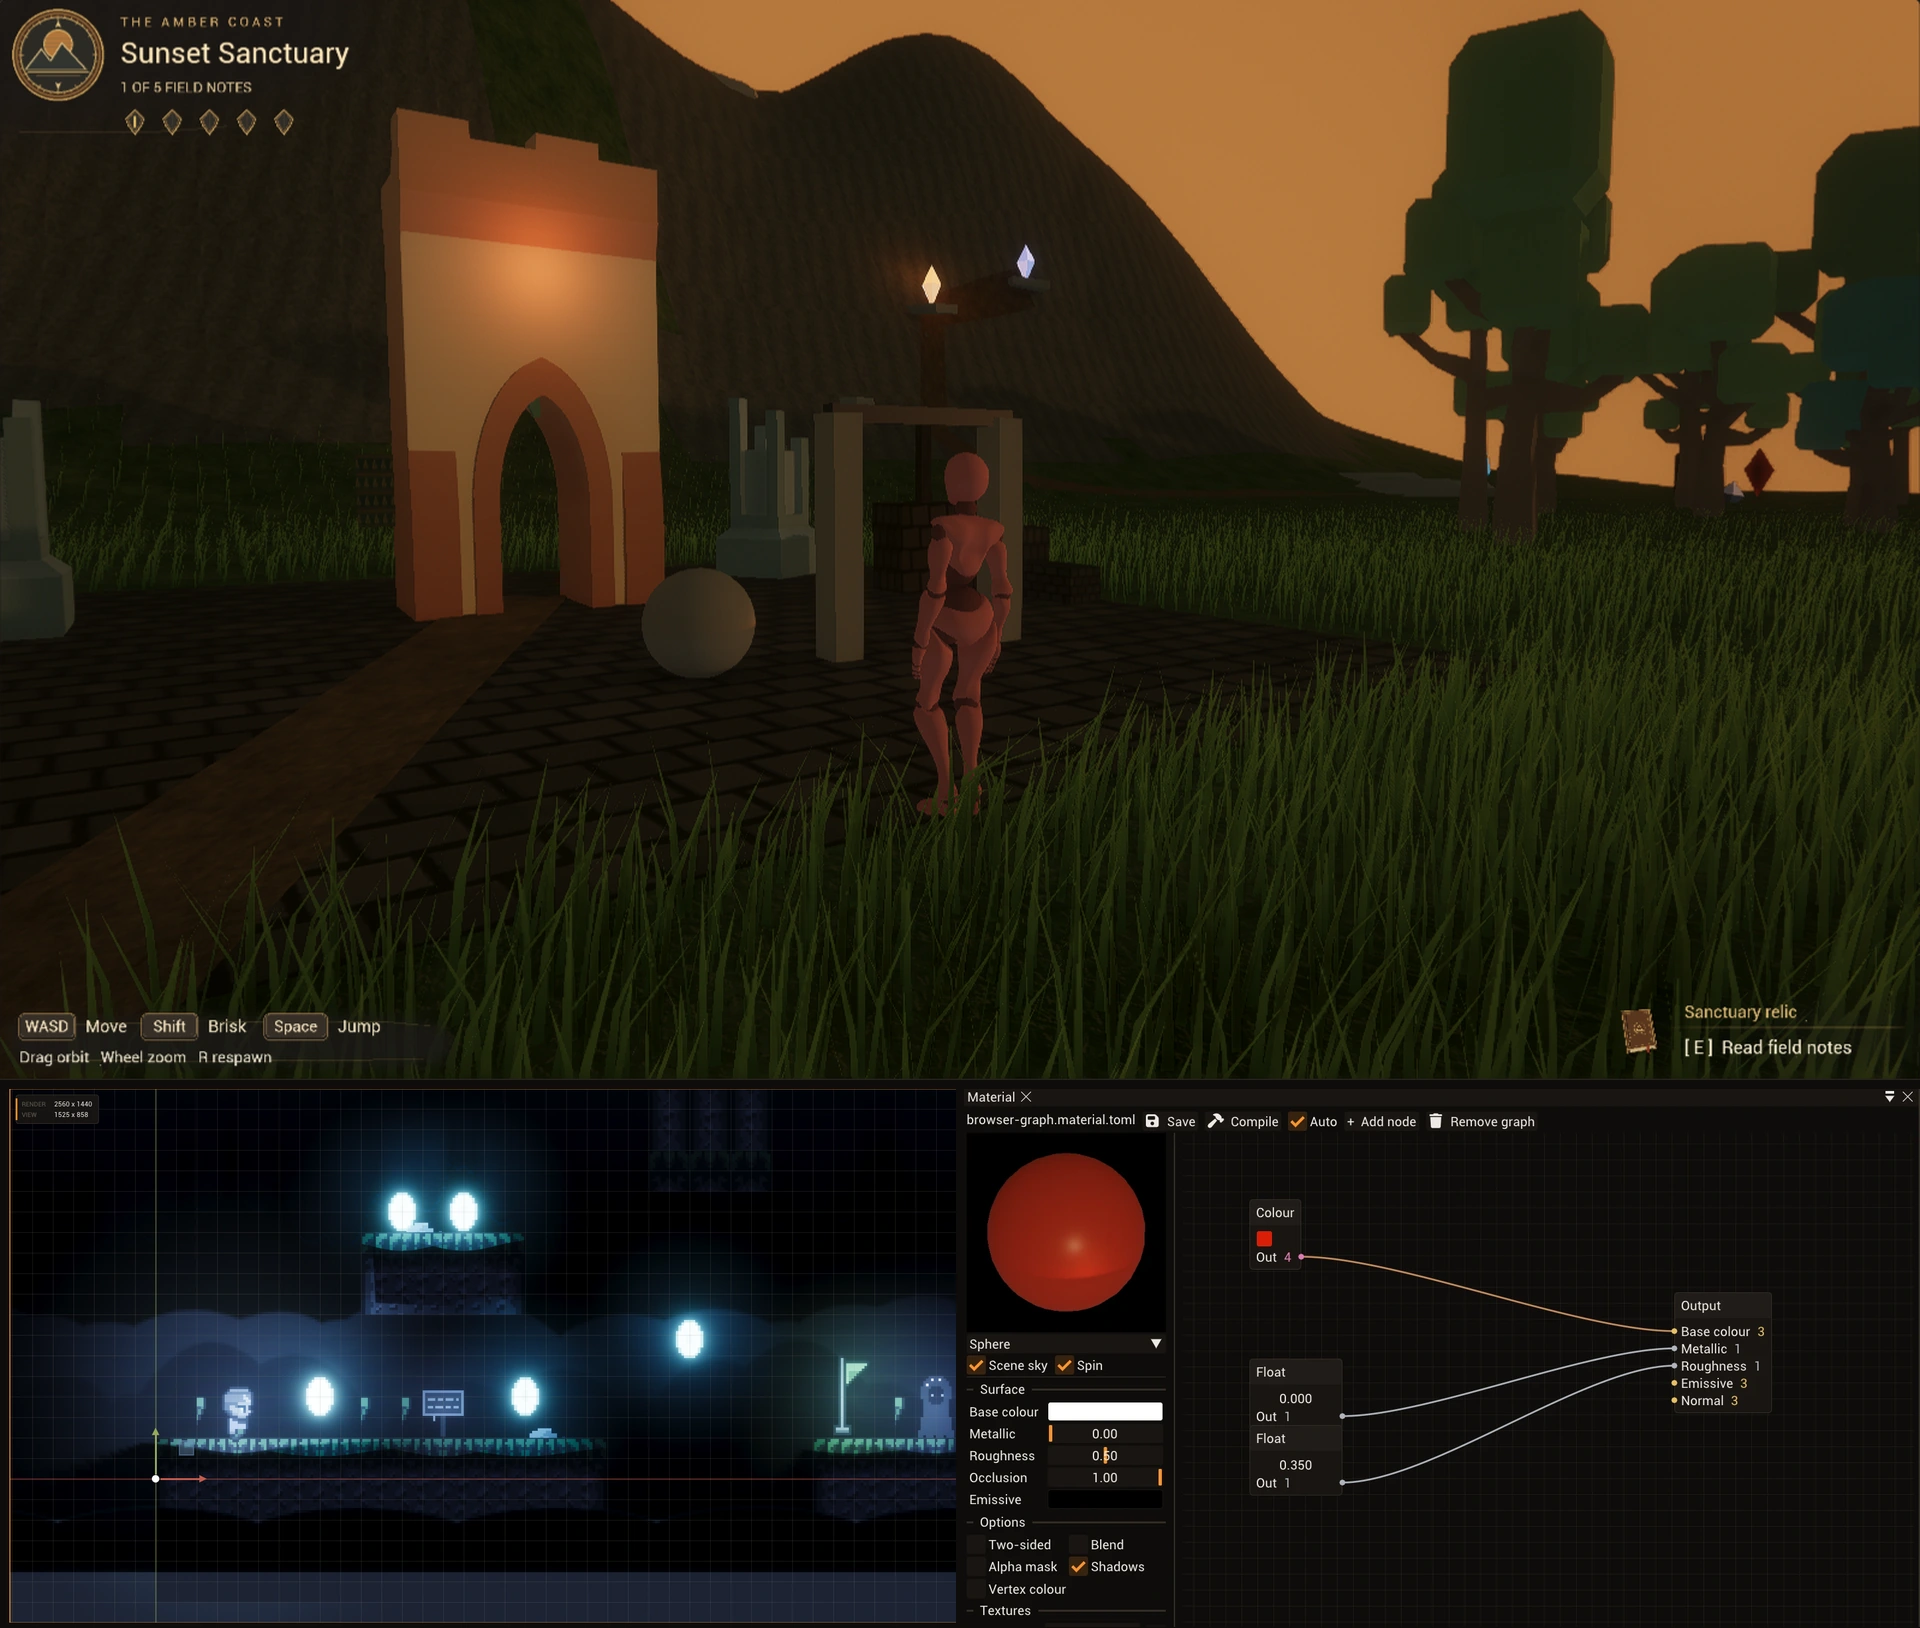
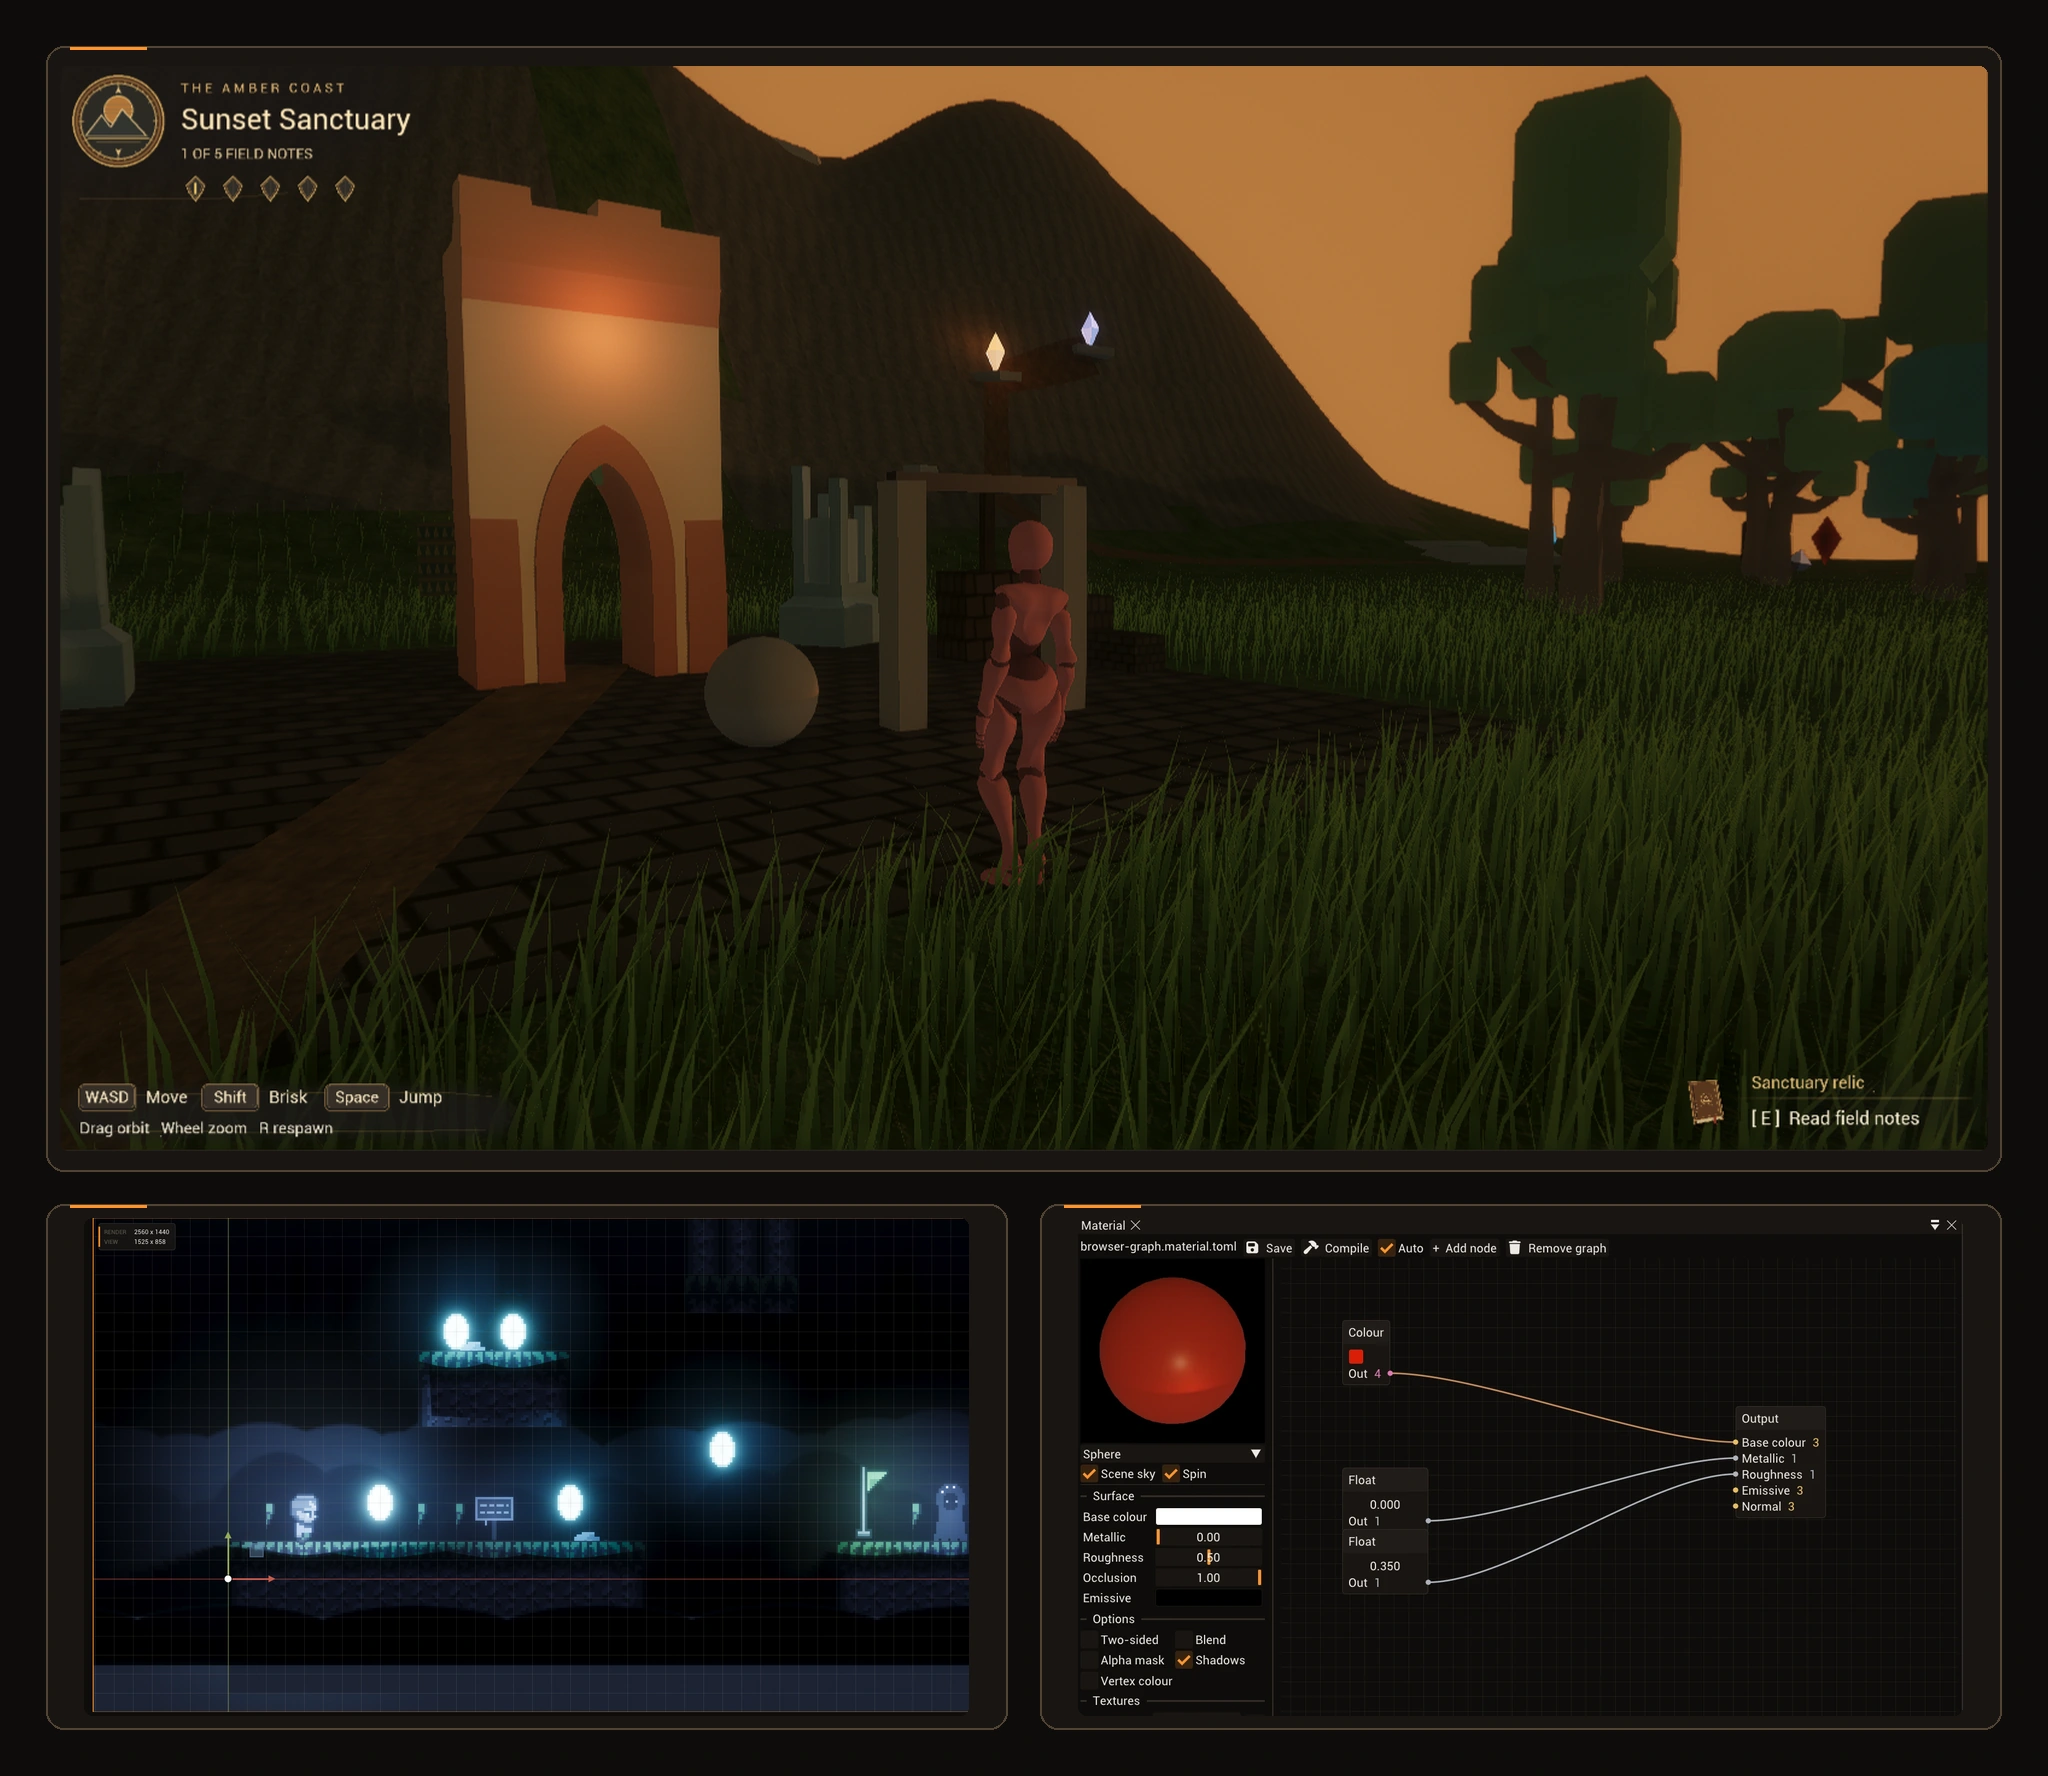
Frame the README showcase captures

diff --git a/docs/website.md b/docs/website.md
@@ -49,7 +49,7 @@ The bottom controls and journal hint now anchor flush to their respective canvas
 
 The final browser images were retaken after fixing graphics-key serialization. Native TOML keys are case-insensitive, while the runtime manifest reads camelCase names such as `exposureKey` and `gtaoStrength`. The previous export passed lowercase keys through and silently used defaults for those fields. The replacement applies FoxShowcase’s authored exposure key `0.06`, exposure speed `0.8`, GTAO strength `0.65` and grading controls. Manual exposure `0.85` was already read correctly. Images were not darkened in post.
 
-The README uses one `docs/images/showcase.webp` composite (1920 × 1628), retaining its badges and logo. A fresh browser capture at FoxShowcase’s shrine leads the image; larger supporting crops show INKBOUND’s 2D viewport and the native material graph with its sphere preview. The shrine source is `logs/website/current-captures/browser/readme-shrine-angle.png`. Assembly only crops, resizes and letterboxes real captures; it does not repaint scenes or fabricate UI. The approved HumanDemo remains the website hero.
+The README uses one `docs/images/showcase.webp` composite (2048 × 1776), retaining its badges and logo. A fresh browser capture at FoxShowcase’s shrine leads the image; larger supporting crops show INKBOUND’s 2D viewport and the native material graph with its sphere preview. Each capture has a padded, rounded frame with a subtle warm border and short amber accent, separated by generous gutters on the site background. The shrine source is `logs/website/current-captures/browser/readme-shrine-angle.png`. Assembly only crops, resizes, letterboxes and frames real captures; it does not repaint scenes or fabricate UI. The approved HumanDemo remains the website hero.
 
 ### Adding development notes
 
